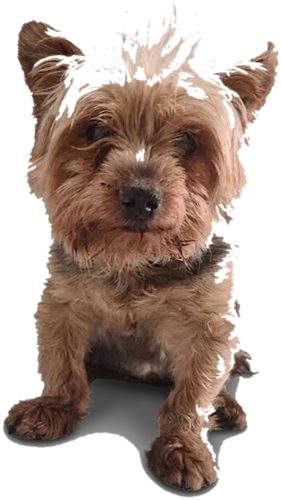
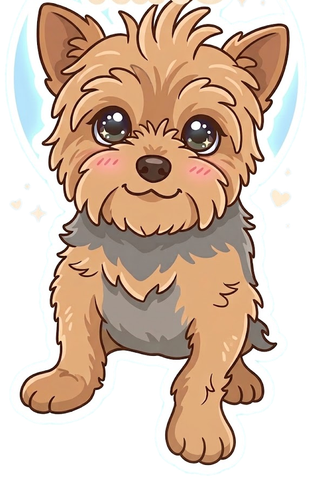
Add files via upload

diff --git a/styles.css b/styles.css
@@ -49,7 +49,7 @@ body {
   100% { background-position: 100% 100%; }
 }
 
-#bg-canvas {
+#bgCanvas {
   position: fixed;
   inset: 0;
   z-index: 0;
